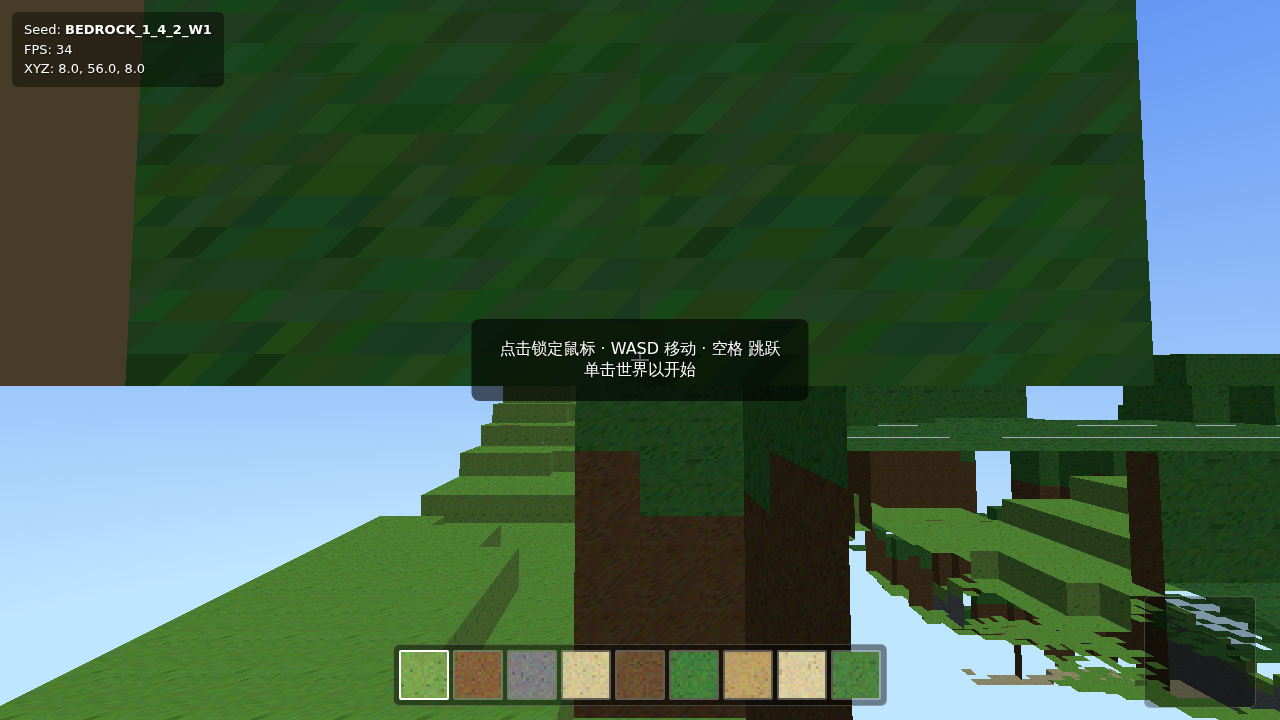
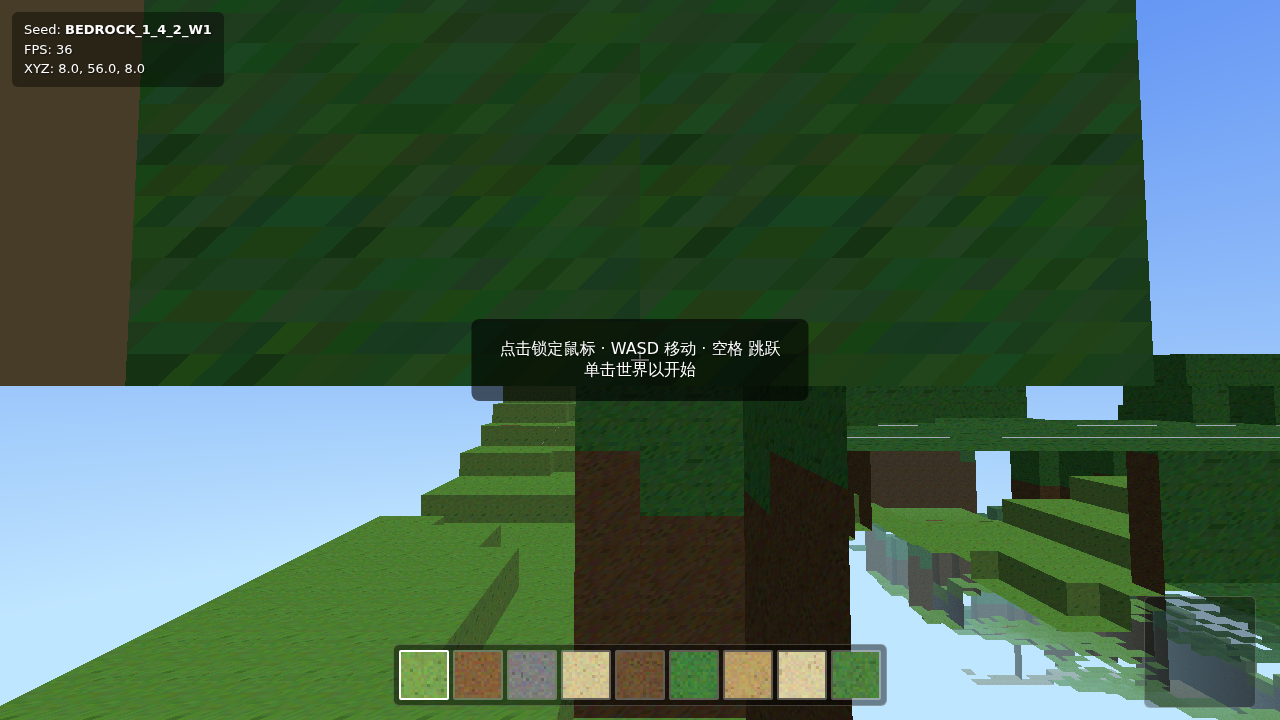
W1 V3返工: 修复跨chunk连续性/天空穿透视觉伪影 (MUL-71)
- 水体近不透明(0.92)+depthWrite, 消除大范围海洋上悬浮透明瓦片网格/穿透空洞感
- 雾距缩紧(25..80)让已加载世界边缘完全融入天空色, 消除渲染距离硬切边的'断裂/空洞'观感
- 新增跨chunk列一致性测试 + chunk卸载重载确定性测试 (16 tests)
- 软件渲染 FPS desktop36.5/small52.5(>=30), 0 阻断错误; C03 固定seed逻辑证据维持 PASS 不需重做

Changed region(s): [[0.6562, 0.7333, 1.0, 1.0], [0.75, 0.7028, 0.7812, 0.7333]]

diff --git a/test/mesher.test.js b/test/mesher.test.js
@@ -72,4 +72,36 @@ describe("chunk meshing", () => {
     }
     expect(flipped).toBe(0);
   });
+
+  it("cross-chunk: World.getColumn returns identical column regardless of which neighboring chunk addresses it (seam continuity)", () => {
+    const w = new World("BEDROCK_1_4_2_W1");
+    w.ensureChunk(0, 0); w.ensureChunk(1, 0); w.ensureChunk(0, 1);
+    w.ensureChunk(-1, 0); w.ensureChunk(0, -1);
+    // sample columns just inside and across every +x/+z seam of chunk (0,0)
+    const seams = [];
+    for (let lz = 0; lz < 16; lz += 3) {
+      // +x seam: column wx=15 (last of chunk0) vs wx=16 (first of chunk1)
+      seams.push([15, lz]);
+      // +z seam
+      seams.push([lz, 15]);
+    }
+    for (const [lx, lz] of seams) {
+      const colA = w.getColumn(lx, lz);
+      const colB = w.getColumn(lx, lz);
+      for (let y = 0; y < 96; y++) expect(colA[y]).toBe(colB[y]);
+    }
+    // a neighbor-accessed column equals the chunk-owned one
+    const viaNeighbor = w.getColumn(16, 0);
+    const c1 = w.ensureChunk(1, 0);
+    expect(viaNeighbor[24]).toBe(c1.get(0)[24]);
+  });
+
+  it("chunk unload+reload is deterministic (identical mesh triangle counts)", () => {
+    const w = new World("SEED_UL");
+    warmChunks(w);
+    const before = meshChunk(w, 2, 1).opaque.getIndex().count;
+    w.unloadChunk(2, 1);
+    const after = meshChunk(w, 2, 1).opaque.getIndex().count;
+    expect(after).toBe(before);
+  });
 });

diff --git a/src/render/engine.js b/src/render/engine.js
@@ -17,7 +17,7 @@ export class Engine {
     container.appendChild(this.renderer.domElement);
 
     this.scene = new THREE.Scene();
-    this.scene.fog = new THREE.Fog(0xaee3ff, 60, 220);
+    this.scene.fog = new THREE.Fog(0xaee3ff, 25, 80);
 
     // sky dome
     this.sky = new THREE.Mesh(
@@ -62,8 +62,8 @@ export class Engine {
     this.waterMat = new THREE.MeshLambertMaterial({
       map: this.tex,
       transparent: true,
-      opacity: 0.72,
-      depthWrite: false,
+      opacity: 0.92,      // near-opaque so the ocean reads as a solid body, not a floating see-through grid
+      depthWrite: true,
     });
 
     this.chunkGroup = new THREE.Group();
